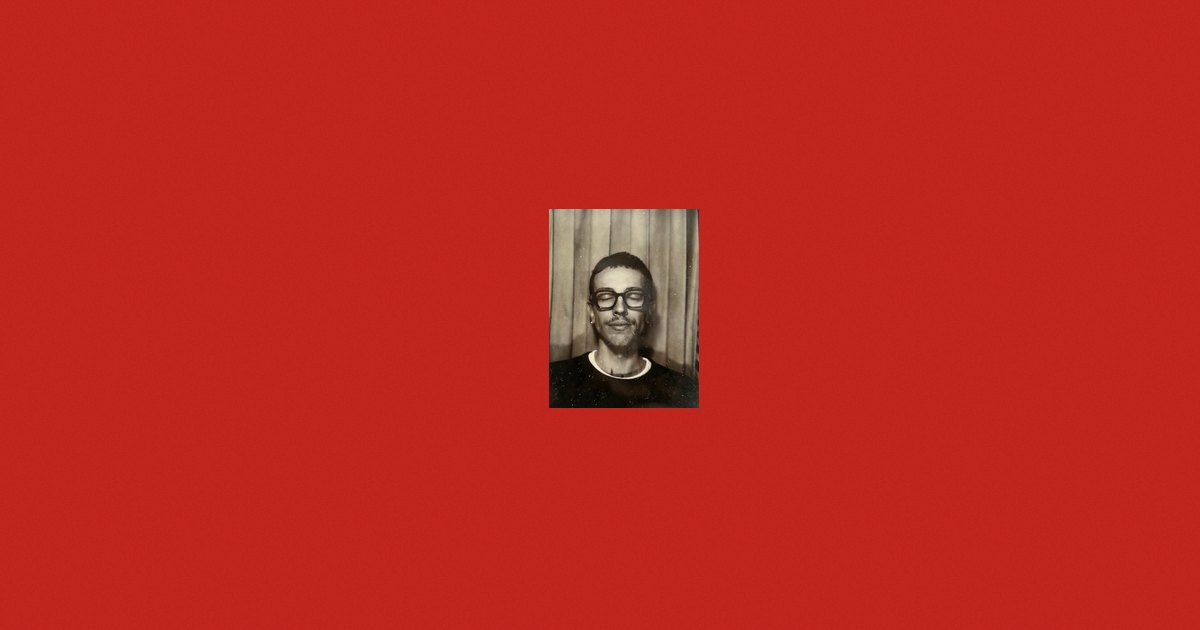
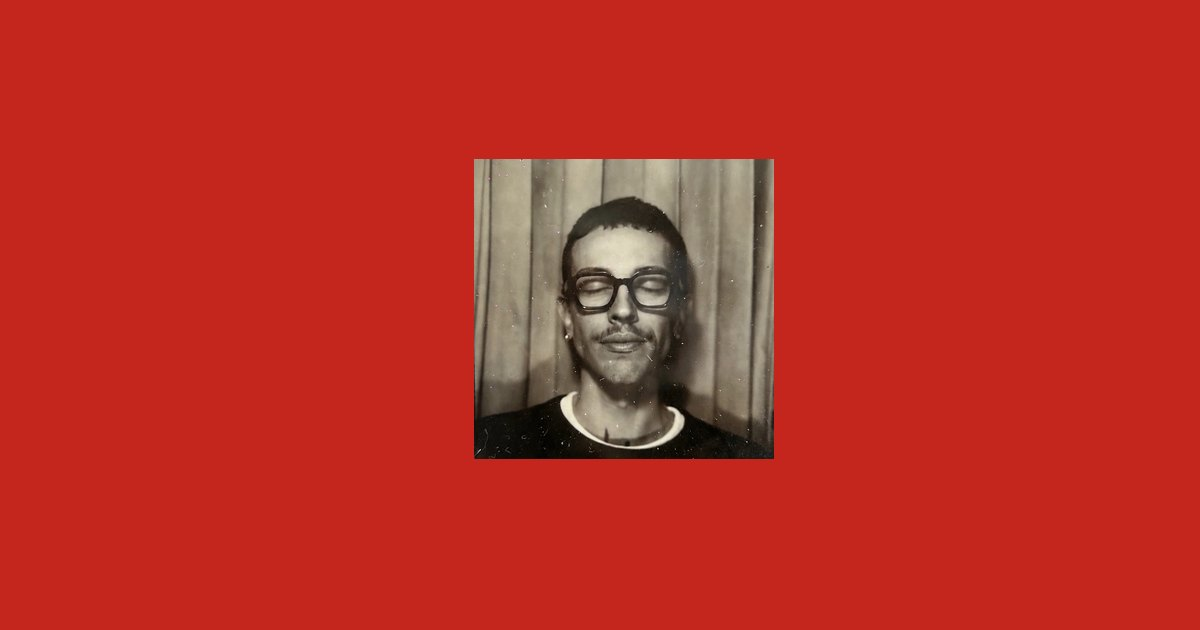
Accueil : photo photomaton, menus en gras (700) sur les pages rouges
Claude-Session: https://claude.ai/code/session_01AEyJVpJBRcBBtdsRhAyVeb

Changed region(s): [[0.37, 0.2413, 0.6475, 0.754]]

diff --git a/assets/css/site.css b/assets/css/site.css
@@ -6,6 +6,7 @@
    Un caractère chinois absent s'affiche dans la police chinoise du système en attendant. */
 @font-face { font-family: 'Denkidan'; src: url(/assets/fonts/denkidan-400.woff) format('woff'); font-weight: 400; font-display: swap; }
 @font-face { font-family: 'Denkidan'; src: url(/assets/fonts/denkidan-500.woff) format('woff'); font-weight: 500; font-display: swap; }
+@font-face { font-family: 'Denkidan'; src: url(/assets/fonts/denkidan-700.woff) format('woff'); font-weight: 700; font-display: swap; }
 
 :root {
   --rouge: #C4261E;              /* rouge d'imprimerie, légèrement pigmentaire */
@@ -69,6 +70,11 @@ body.rouge { background: var(--rouge); color: var(--blanc); height: 100svh; over
 .rail ul { list-style: none; margin: 0; padding: 0; display: flex; flex-direction: column; gap: 26px; }
 
 .nom { opacity: .9; }
+
+/* Menus des pages rouges (accueil, contact, 404) : plus gras et plus présents sur le rouge */
+body.rouge .rail { font-weight: 700; }
+body.rouge .lnk { opacity: .82; }
+body.rouge .lnk:hover, body.rouge .lnk:focus-visible, body.rouge .lnk.is-on, body.rouge .lnk[aria-current] { opacity: 1; font-weight: 700; }
 
 /* Aperçu central : deux calques pour le fondu croisé */
 .apercu { position: fixed; inset: 0; z-index: 1; pointer-events: none; }

diff --git a/index.html b/index.html
@@ -13,7 +13,7 @@
 <meta name="twitter:card" content="summary_large_image">
 <meta name="theme-color" content="#C4261E">
 <link rel="icon" href="/favicon.svg" type="image/svg+xml">
-<link rel="preload" href="/assets/fonts/denkidan-400.woff" as="font" type="font/woff" crossorigin>
+<link rel="preload" href="/assets/fonts/denkidan-700.woff" as="font" type="font/woff" crossorigin>
 <link rel="stylesheet" href="/assets/css/site.css">
 </head>
 <body class="rouge page-accueil">
@@ -35,8 +35,8 @@
   </nav>
 
   <div class="apercu" aria-hidden="true">
-    <img class="on" src="/assets/img/site/portrait-preview.jpg" fetchpriority="high" width="360" height="480" alt="">
-    <img src="/assets/img/site/portrait-preview.jpg" width="360" height="480" alt="">
+    <img class="on" src="/assets/img/site/photomaton.jpg" fetchpriority="high" width="680" height="680" alt="">
+    <img src="/assets/img/site/photomaton.jpg" width="680" height="680" alt="">
   </div>
 
   <script src="/assets/js/projects.js"></script>

diff --git a/contact/index.html b/contact/index.html
@@ -9,6 +9,7 @@
 <meta name="theme-color" content="#C4261E">
 <link rel="icon" href="/favicon.svg" type="image/svg+xml">
 <link rel="preload" href="/assets/fonts/denkidan-400.woff" as="font" type="font/woff" crossorigin>
+<link rel="preload" href="/assets/fonts/denkidan-700.woff" as="font" type="font/woff" crossorigin>
 <link rel="stylesheet" href="/assets/css/site.css">
 </head>
 <body class="rouge page-contact">

diff --git a/assets/js/projects.js b/assets/js/projects.js
@@ -33,7 +33,7 @@
 window.SITE = {
   name: "Lucas Talarn",
   email: "lucastalarn@gmail.com",
-  portrait: { src: "/assets/img/site/portrait", w: 672, h: 895, alt: "Lucas Talarn, portrait au photomaton, yeux fermés" }
+  portrait: { src: "/assets/img/site/photomaton", w: 680, h: 680, alt: "Lucas Talarn, portrait au photomaton, yeux fermés" }
 };
 
 window.PROJECTS = [
